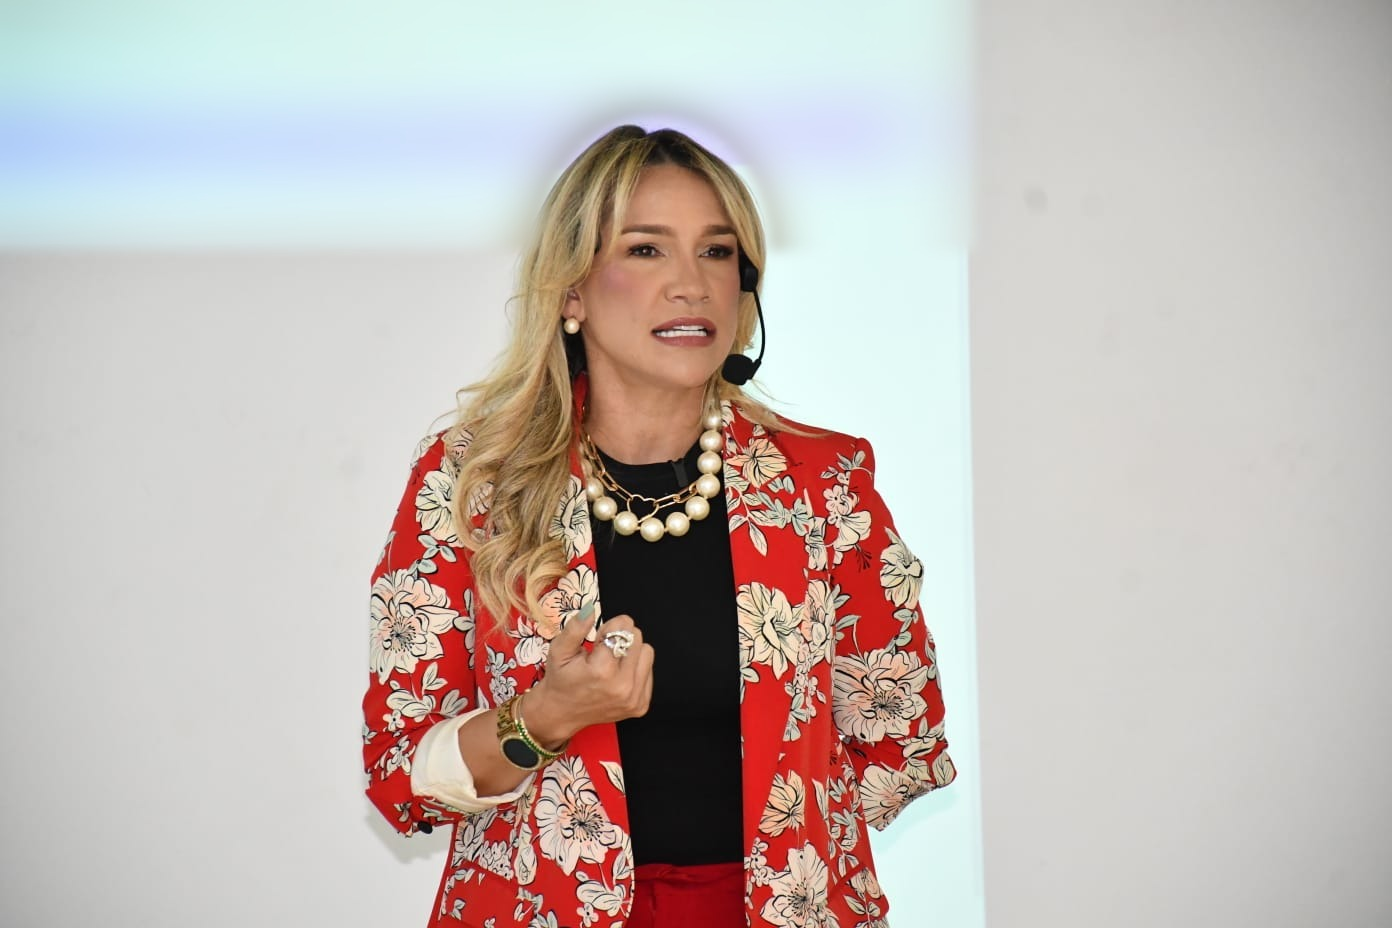
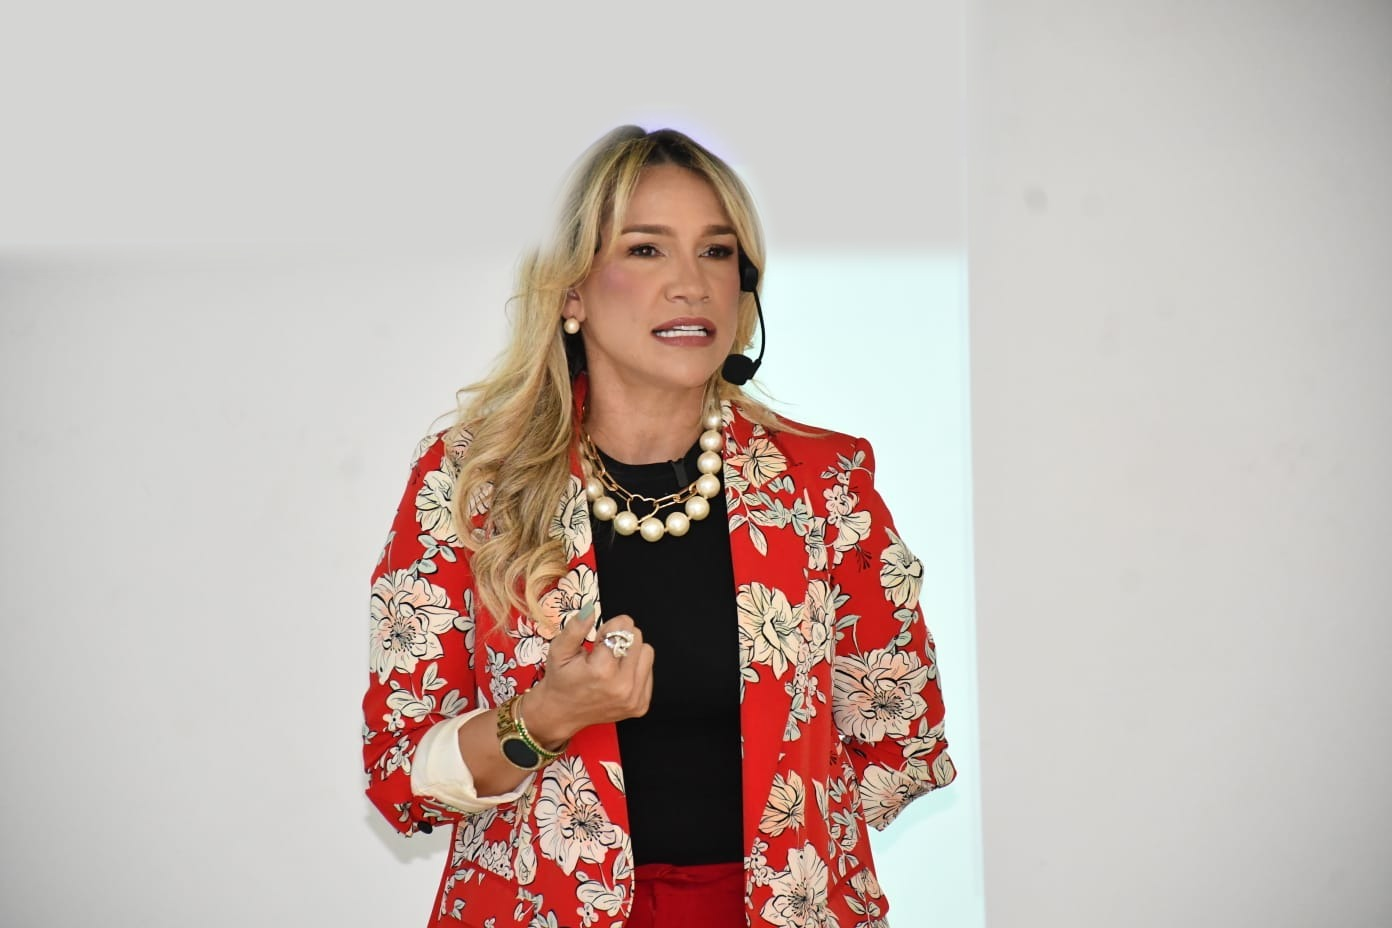
Publicado el post del agente de IA
Claude-Session: https://claude.ai/code/session_01Tmne2aLNP1UGqMwJXFqoP3

Changed region(s): [[0.0, 0.0, 0.7105, 0.2812]]

diff --git a/contenido-linkedin/borradores/vie-30-agente.md b/contenido-linkedin/borradores/vie-30-agente.md
@@ -1,7 +1,7 @@
 # Vie 30 oct · 5:30 p. m. · "Este post lo publicó un agente de IA"
 
-Imagen: `contenido-linkedin/imagenes/agente-publica.jpg` (foto "Foto Red Conference" de Fotos Profesionales)
-Estado: pendiente de aprobación de Sandra
+Imagen: `contenido-linkedin/imagenes/agente-publica.jpg` (foto real de conferencia, 12 ago 2026)
+Estado: publicado el 30 oct 2026 (urn:li:share:7521981506832048129). Foto final: conferencia real, no la retocada con IA
 
 ---
 
